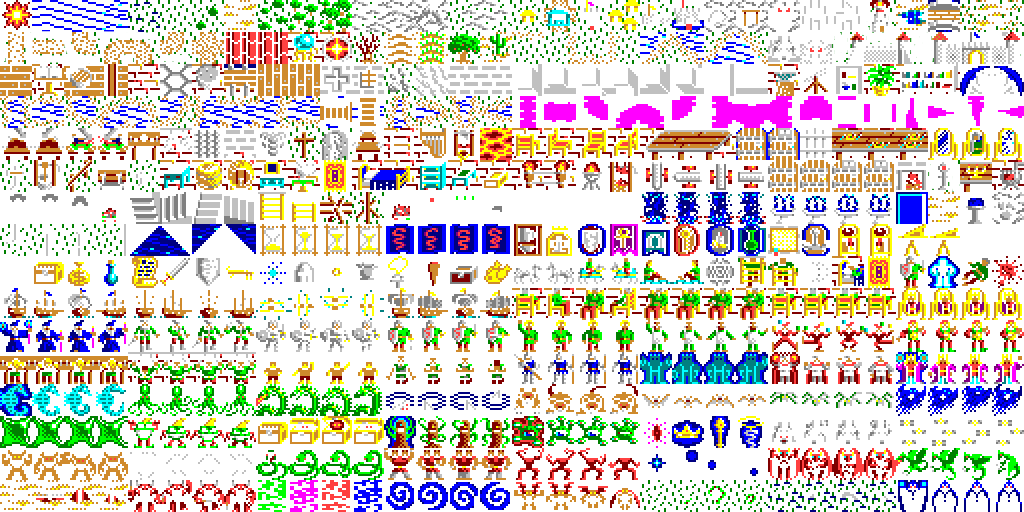
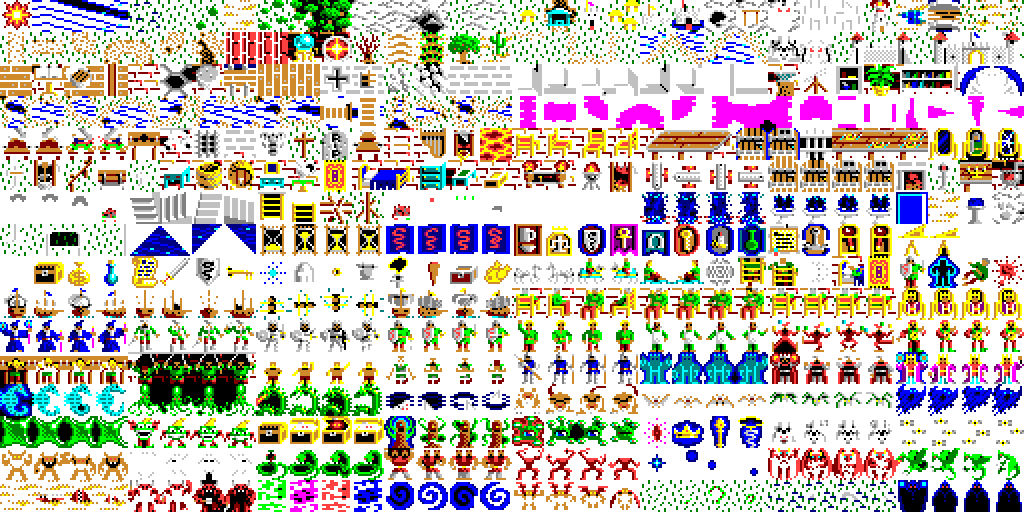
changes.

diff --git a/main.py b/main.py
@@ -5,6 +5,7 @@ import Tkinter as tk
 import time
 from constants import *
 from utils import *
+from ship import *
 import math
 
 class WorldEngine ():
@@ -19,7 +20,7 @@ class WorldEngine ():
     self.worldMap = openMap (worldMap)
     self.curMap = self.worldMap
 
-    self.charImg = self.getTkImg (self.curMap ['tiles'].get_tile_image (0, 0, LCHAR))
+    self.charImg = self.getTkImg (TILE_CHAR)
 
     self.curX = INIT_WORLD_X
     self.curY = INIT_WORLD_Y
@@ -30,7 +31,21 @@ class WorldEngine ():
     self.root.bind ("<Down>",  self.downHandler)
     self.root.bind ("<Key>",   self.keyHandler)
 
-  def getTkImg (self, t): # t is a tileinfo
+    s = Ship(self)
+    self.addWorldObject (s)
+
+  def addWorldObject (self, o):
+    self.curMap ['objects'].append (o)
+
+  def getTkImg (self, t):
+    # t is a tuple of (filename, grid x, grid y)
+    t = (t[0], (t[1] * TW, t[2] * TW, TW, TW), None)
+    print t
+    return self.getTkImgTI (t)
+
+  def getTkImgTI (self, t):
+  # t is a tileinfo
+  # a tuple of filename, (tile x, y, width,  height), flags
     if t is None:
       return None
     if not t [0] in self.tkImages:
@@ -49,6 +64,12 @@ class WorldEngine ():
 
     return d [(t [1][0],t [1][1])] # dict keyed by x, y tuple
 
+  def processTurn (self):
+    for c in self.curMap ['objects']:
+      if not c.processTurn (self):
+        self.curMap ['objects'].remove (c)
+    self.drawScreen()
+
   def drawScreen (self):
     v = self.visDict()
     self.canvas.delete ("all")
@@ -64,14 +85,23 @@ class WorldEngine ():
           if tX < 0 or tX > self.curMap ['tiles'].width or tY < 0 or tY > self.curMap['tiles'].height:
             tX = 0 # 0, 0 is water
             tY = 0
-          tileInfo = self.curMap['tiles'].get_tile_image (tX, tY, layer)
+          tileInfo = self.curMap ['tiles'].get_tile_image (tX, tY, layer)
           if tileInfo:
             self.canvas.create_image (16 + TW * 5 + x * TW,
                                       16 + TW * 5 - y * TW, # screen y is flipped
-                                      image = self.getTkImg (tileInfo))
+                                      image = self.getTkImgTI (tileInfo))
     self.canvas.create_image (16 + TW * 5,
                               16 + TW * 5,
                               image = self.charImg)
+    for obj in self.curMap ['objects']:
+      d = obj.displayInfo(self)
+      print d
+      if d:
+        if v [d [0], d [1]]:
+          self.canvas.create_image (16 + TW * (d [0] + 5),
+                                    16 + TW * (d [1] + 5),
+                                    image = d [2])
+
     self.root.update()
 
   def checkOpacity (self, x, y):
@@ -119,18 +149,19 @@ class WorldEngine ():
 
   def canGo (self, testX, testY):
     tileInfo = self.curMap ['tiles'].get_tile_image (testX, testY, LGROUND)
-    txy = (tileInfo [1][0] / TW, tileInfo [1][1] / TW)
+    txy = (tileInfo [0], tileInfo [1][0] / TW, tileInfo [1][1] / TW)
+    print txy # debug
     if txy in (TILE_GRASS, TILE_TREES2):
       return True
-    return True
+    return False # debug
 
   def tryMove (self, tryX, tryY):
     if self.canGo (tryX, tryY):
       self.curX = tryX
       self.curY = tryY
 
-    self.drawScreen()
-    # print self.curX, self.curY
+    self.processTurn()
+    print self.curX, self.curY # debug
 
   def leftHandler (self, event):
     self.tryMove (self.curX - 1, self.curY)

diff --git a/utils.py b/utils.py
@@ -32,29 +32,31 @@ class Point():
     return direction
 
 # return a dict of the tile map and the mappings for spf
-# generate mappings if the map file is newer than the json
+# generate mappings if the map file is newer than the pickle
 def openMap (name):
   map = {}
   map ['tiles'] = pytmx.TiledMap (name + ".tmx")
   map ['objects'] = [] # characters, objects, etc
 
-  mFileName = name + ".water.pk"
-  try:
-    print "Loading mapping info."
-    f = open (mFileName, 'rb')
-    w = pickle.load (f)
-    map ['water'] = w
-  except:
-    print "Error:", sys.exc_info()[0]
-    print "Can't open", mFileName, "generating mappings."
-    print "Coalesce start"
-    map ['water'] = {}
-    w = map ['water'] # the path info for water.
-    w ['areaMap'] = subdivideMap (map ['tiles'], ((2, 0, 1),))
-    w ['aIDMap'] = areaIdMap (w ['areaMap'])
-    w ['edges'] = mapEdges (w ['areaMap'], w ['aIDMap'])
-    with open (mFileName, 'wb') as f:
-      pickle.dump (w, f, protocol = pickle.HIGHEST_PROTOCOL)
+  mappings = (('water', ((2, 0, 1),)),)
+
+  for mapping in mappings:
+    mFileName = name + "." + mapping [0] + ".pk"
+    try:
+      print "Loading", mapping [0], "mapping info."
+      f = open (mFileName, 'rb')
+      w = pickle.load (f)
+      map [mapping [0]] = w
+    except:
+      print "Can't open", mFileName, "generating mappings."
+      print "Coalesce start"
+      map [mapping [0]] = {}
+      w = map [mapping [0]] # the path info for water.
+      w ['areaMap'] = subdivideMap (map ['tiles'], mapping [1])
+      w ['aIDMap'] = areaIdMap (w ['areaMap'])
+      w ['edges'] = mapEdges (w ['areaMap'], w ['aIDMap'])
+      with open (mFileName, 'wb') as f:
+        pickle.dump (w, f, protocol = pickle.HIGHEST_PROTOCOL)
 
   return map
 

diff --git a/constants.py b/constants.py
@@ -3,13 +3,14 @@ PI = 3.14159
 TAU = 2 * PI
 EFFECTIVE_ZERO = .00001
 
-SCREEN_WIDTH = 640
+SCREEN_WIDTH  = 640
 SCREEN_HEIGHT = 400
 
-INIT_WORLD_X = 36
-INIT_WORLD_Y = 41
+INIT_WORLD_X = 13
+INIT_WORLD_Y = 54
 
 worldMap = "maps/world"
+tiles = "maps/tiles.png"
 LGROUND = 0 # layers
 LROAD = 1
 LTOWN = 2
@@ -20,15 +21,16 @@ TW = 32
 MAX_EDGE_LENGTH = 10
 
 # these tuple's ID tiles by x,y in tiles.png
-TILE_WATER2 = (1, 0)
-TILE_WATER = (2, 0)
-TILE_GRASS = (4, 0)
-TILE_TREES1 = (8, 0)
-TILE_TREES2 = (9, 0)
-TILE_TREES3 = (10, 0)
-TILE_HILLS1a = (14, 0)
-TILE_HILLS1b = (15, 0)
-TILE_HILLS1 = (11, 0)
-TILE_HILLS2 = (12, 0)
-TILE_HILLS3 = (13, 0)
-
+TILE_WATER2   = ("maps/tiles.png", 1, 0)
+TILE_WATER    = ("maps/tiles.png", 2, 0)
+TILE_GRASS    = ("maps/tiles.png", 5, 0)
+TILE_TREES1   = ("maps/tiles.png", 8, 0)
+TILE_TREES2   = ("maps/tiles.png", 9, 0)
+TILE_TREES3   = ("maps/tiles.png", 10, 0)
+TILE_HILLS1a  = ("maps/tiles.png", 14, 0)
+TILE_HILLS1b  = ("maps/tiles.png", 15, 0)
+TILE_HILLS1   = ("maps/tiles.png", 11, 0)
+TILE_HILLS2   = ("maps/tiles.png", 12, 0)
+TILE_HILLS3   = ("maps/tiles.png", 13, 0)
+TILE_CHAR     = ("maps/tilesAlpha.png", 12, 10)
+TILE_BOAT     = ("maps/tilesAlpha.png", 1, 9)

diff --git a/ship.py b/ship.py
@@ -1,0 +1,20 @@
+import math
+from utils import *
+from constants import *
+
+class Ship ():
+  def __init__(self, w):
+    self.x = 10 # initial position
+    self.y = 54
+    self.i = w.getTkImg (TILE_BOAT)
+
+  def processTurn (self, e):
+    return True
+
+  def displayInfo (self, w):
+    sx = self.x - w.curX
+    sy = w.curY - self.y
+    if math.fabs(sx) <= 5 and math.fabs(sy) <= 5:
+      return (sx, sy, self.i)
+
+    return None
